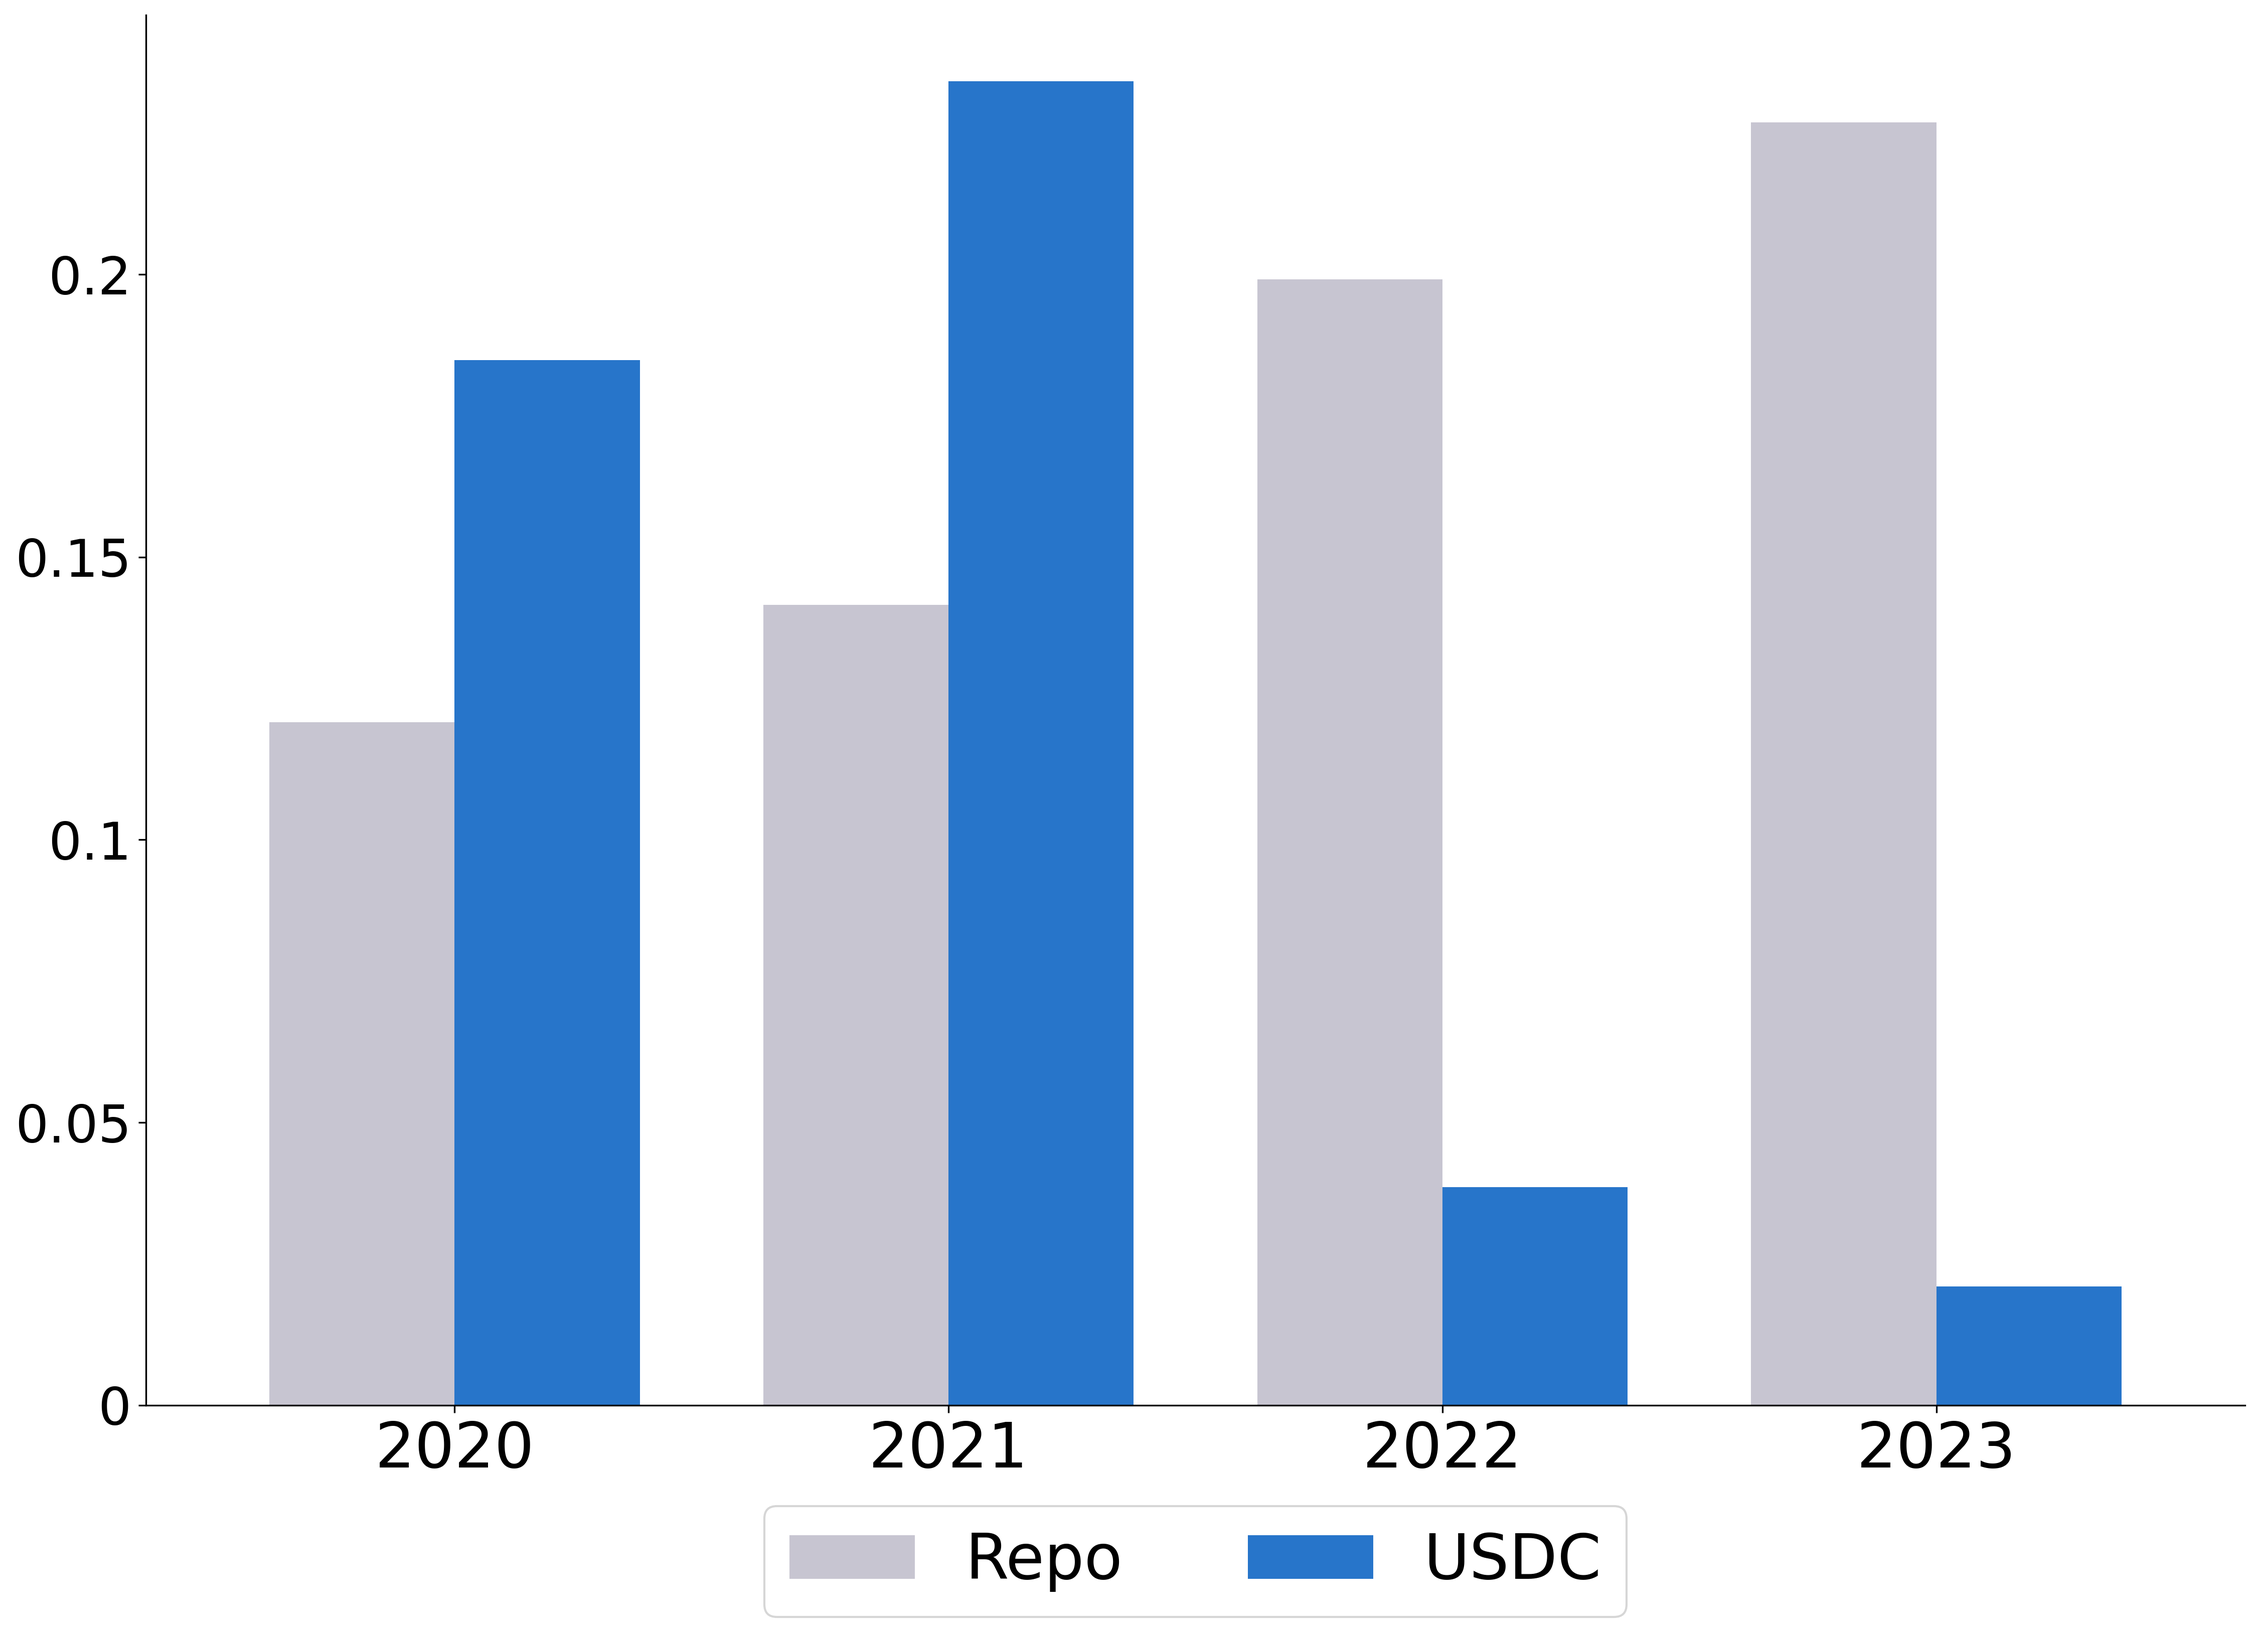
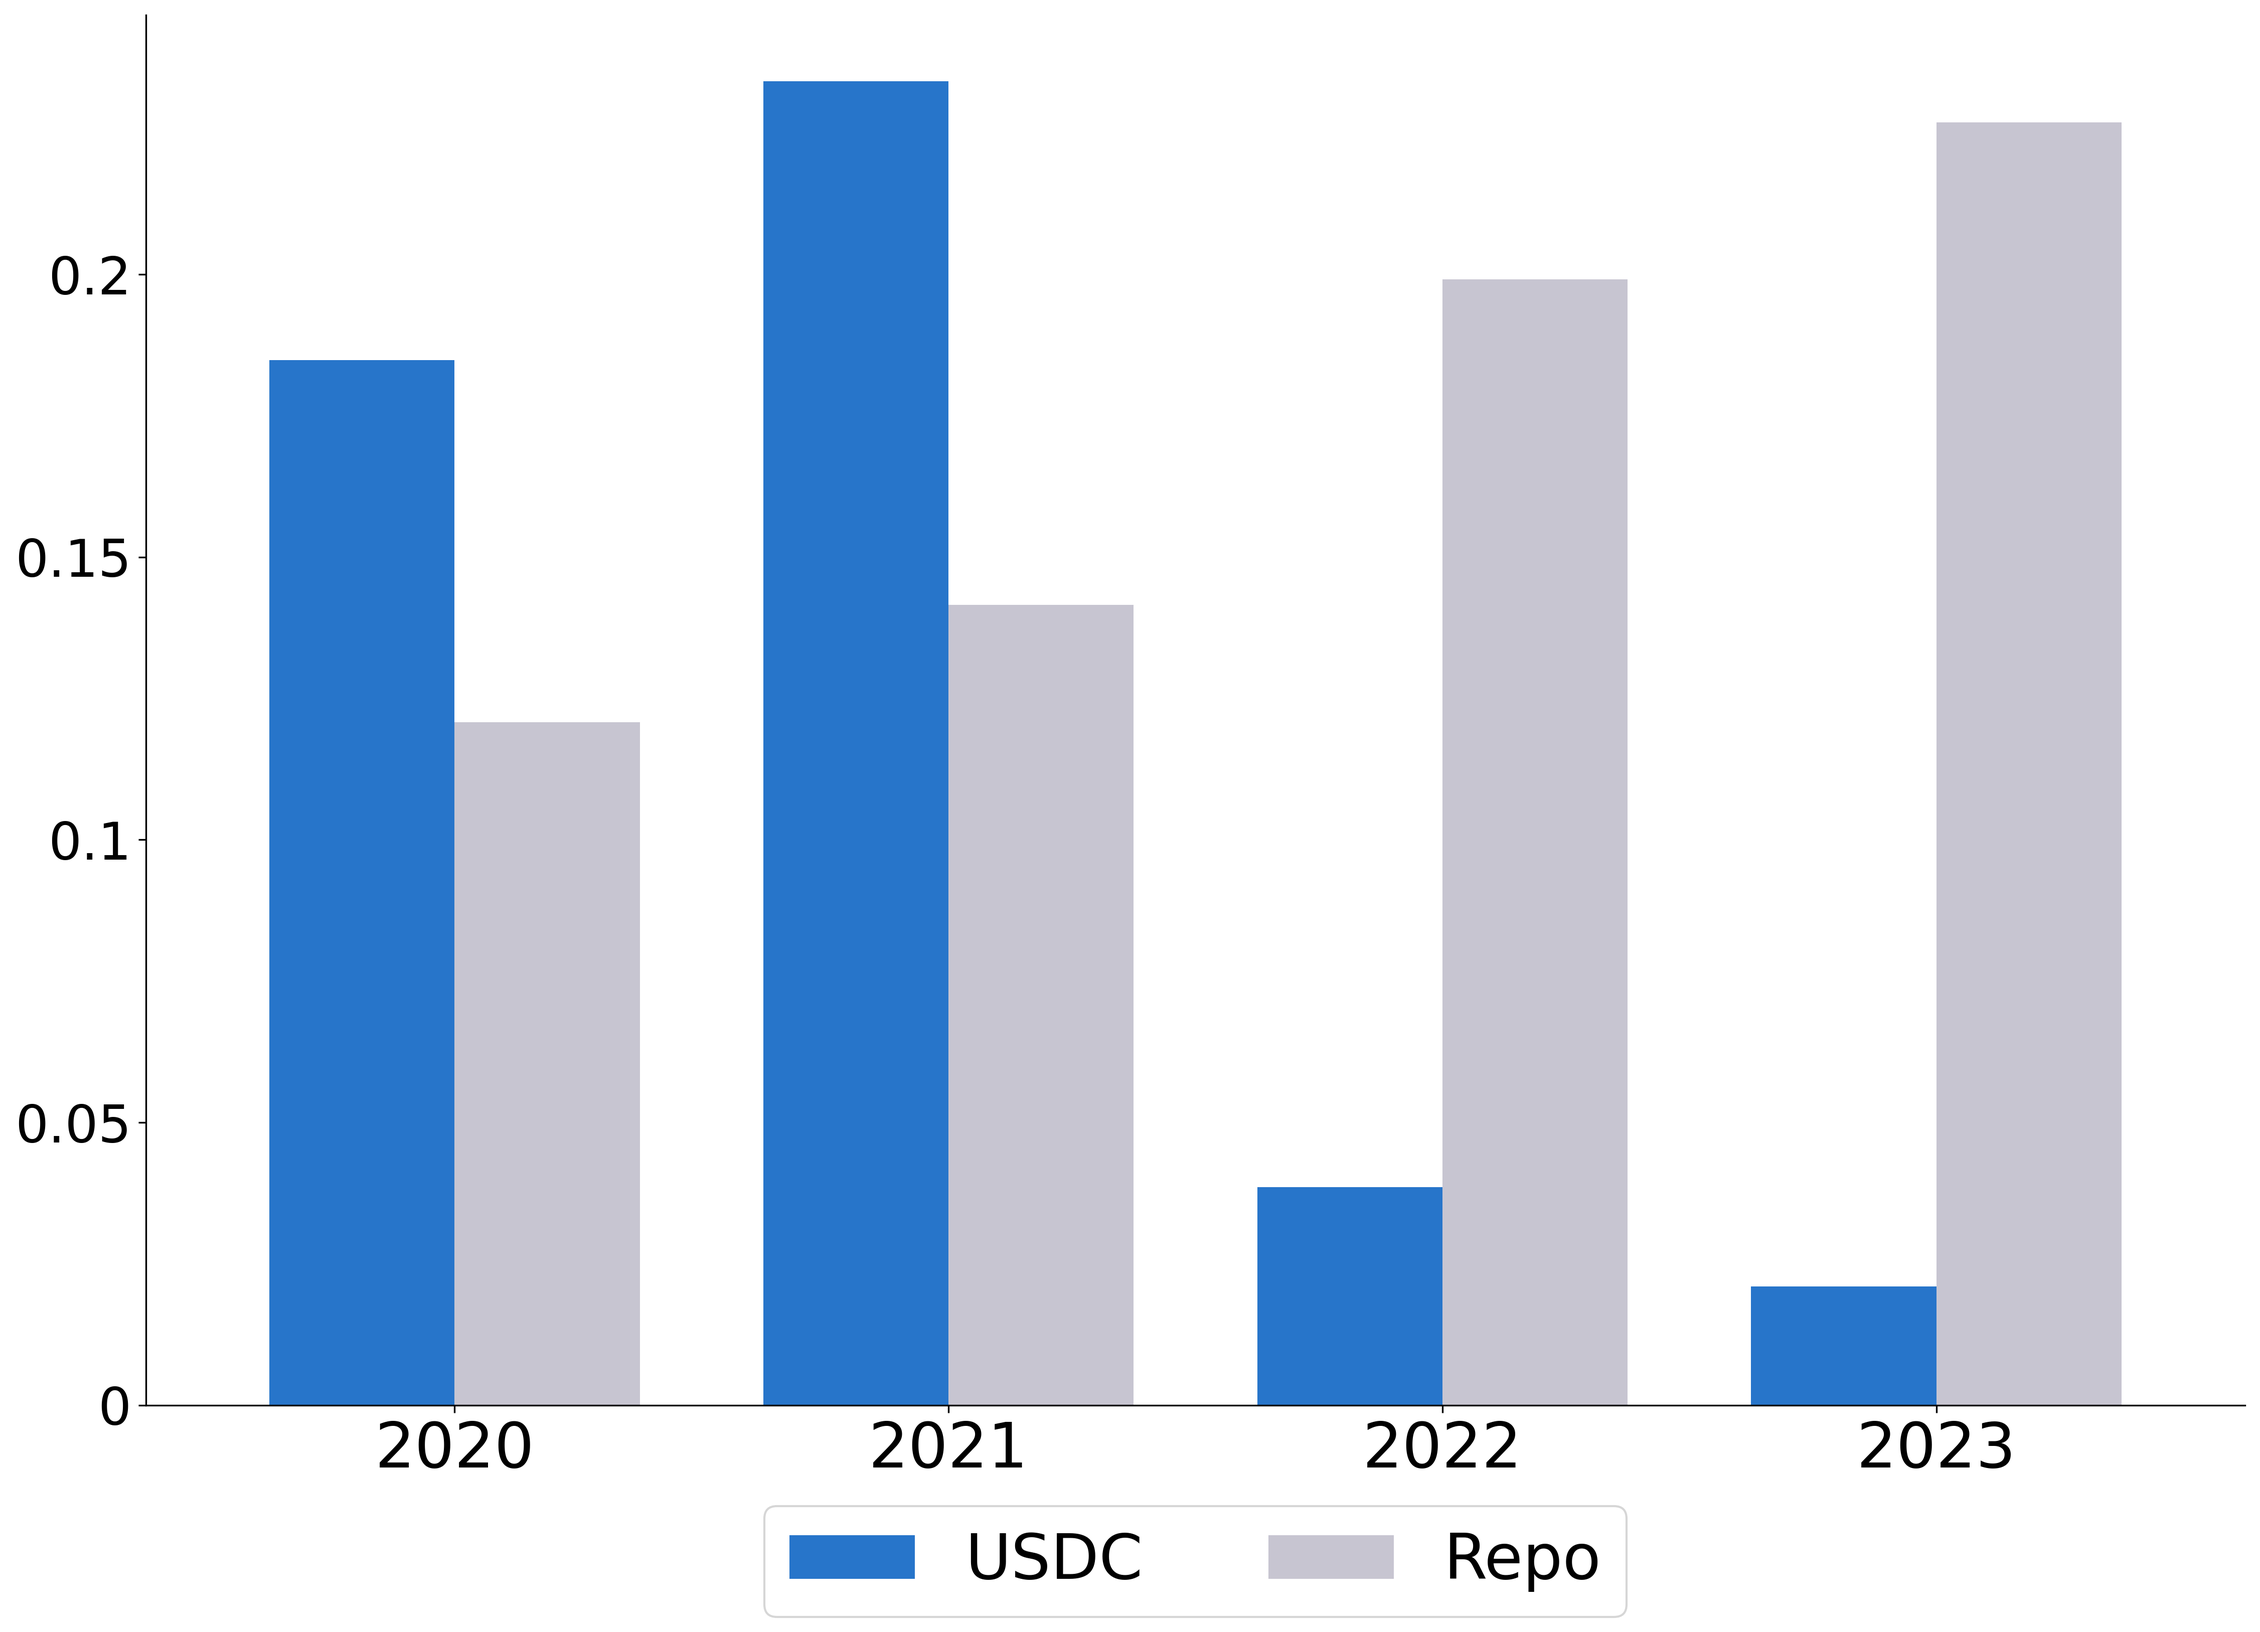
Figure 6 & 7

diff --git a/code/figure6_time_series_volume_to_circulation.py b/code/figure6_time_series_volume_to_circulation.py
@@ -1,0 +1,77 @@
+import requests
+import pandas as pd
+import datetime
+import pandas_datareader.data as web
+import matplotlib.pyplot as plt
+import seaborn as sns
+from matplotlib.pyplot import figure
+
+# Create a api_key.py file in the same directory and add your CMC API key
+from api_key import CMC_API_KEY
+from utils import fetch_cmc_data
+
+
+def plot_ts_speculative_ratio(
+    start_date=datetime.datetime(2019, 1, 1), end_date=datetime.datetime(2023, 3, 31)
+):
+    # Fetch daily USDC, USDT, and BUSD market cap data from CMC
+    usdc_data = fetch_cmc_data("USDC").loc[start_date:end_date]
+    usdt_data = fetch_cmc_data("USDT").loc[start_date:end_date]
+    busd_data = fetch_cmc_data("BUSD").loc[start_date:end_date]
+
+    ts_data = usdt_data.merge(busd_data, left_index=True, right_index=True, how="outer")
+    ts_data.fillna(0, inplace=True)
+    ts_data["ts_market_cap"] = ts_data["USDT_market_cap"] + ts_data["BUSD_market_cap"]
+    ts_data["ts_volume"] = ts_data["USDT_volume"] + ts_data["BUSD_volume"]
+
+    # Calculate to ratio and resample to monthly
+    dryT = (
+        pd.DataFrame(
+            {"Trading Stablecoins": (ts_data["ts_volume"]) / (ts_data["ts_market_cap"])}
+        )
+        .resample("Y", label="left")
+        .mean()
+    )
+
+    dryT = dryT.loc[datetime.datetime(2019, 1, 1) :]
+    dryT.index = dryT.index.year
+    dryT.name = "Trading Stablecoins"
+
+    dry = (
+        (usdc_data["USDC_volume"] / usdc_data["USDC_market_cap"])
+        .resample("Y", label="left")
+        .mean()
+    )
+    dry = dry.loc[datetime.datetime(2019, 1, 1) :]
+    dry.index = dry.index.year
+    dry.name = "USDC"
+
+    figure(figsize=(18, 12), dpi=300)
+    ax = plt.axes()
+    ax.set_axisbelow(True)
+    ax.xaxis.grid(False)
+    ax.yaxis.grid(False)
+
+    combined = pd.concat([dry, dryT], axis=1)
+
+    color_dict = {"USDC": "#2775ca", "Trading Stablecoins": "#c7c5d1"}
+    combined = combined[["USDC", "Trading Stablecoins"]]
+
+    combined.plot(
+        kind="bar",
+        ax=ax,
+        color=list(color_dict.values()),
+        width=0.75,
+        legend=True,
+    )
+    ax.spines["top"].set_visible(False)
+    ax.spines["right"].set_visible(False)
+    plt.xticks(rotation=0, fontsize=30)
+    plt.xticks(fontsize=25)
+    plt.legend(bbox_to_anchor=(0.5, -0.05), loc="upper center", ncol=2, fontsize=30)
+
+    plt.savefig("../output/Figure6.png", bbox_inches="tight")
+
+
+if __name__ == "__main__":
+    plot_ts_speculative_ratio()

diff --git a/code/figure7_time_series_debt_to_circulations.py b/code/figure7_time_series_debt_to_circulations.py
@@ -75,10 +75,12 @@ def plot_ts_debt_to_circulation(start_date, end_date):
     ax.xaxis.grid(False)
     ax.yaxis.grid(False)
 
+    color_dict = {"USDC": "#2775ca", "Repo": "#c7c5d1"}
+    resampled_combined = resampled_combined[["USDC", "Repo"]]
     bars = resampled_combined.plot(
         kind="bar",
         ax=ax,
-        color=["#c7c5d1", "#2775ca"],
+        color=list(color_dict.values()),
         width=0.75,
         legend=True,
     )
